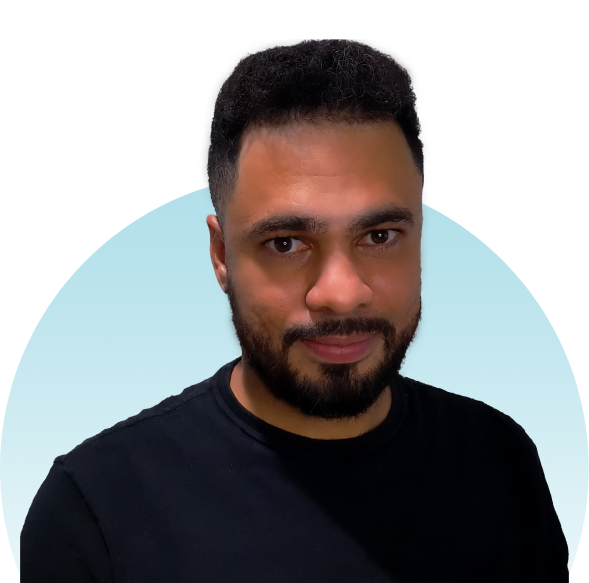
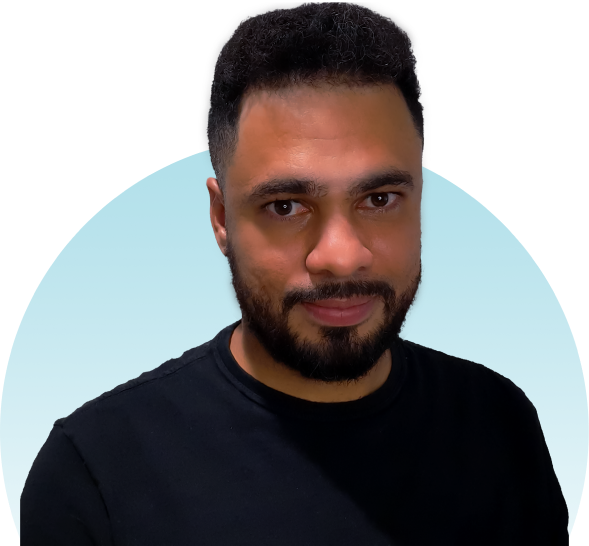
about section responsivity 1

diff --git a/assets/styles/css/style.min.css b/assets/styles/css/style.min.css
@@ -1,1 +1,1 @@
-@import"https://fonts.googleapis.com/css2?family=Poppins:ital,wght@0,100;0,200;0,300;0,400;0,500;0,600;0,700;0,800;0,900;1,100;1,200;1,300;1,400;1,500;1,600;1,700;1,800;1,900&family=Raleway:ital,wght@0,100..900;1,100..900&display=swap";*{margin:0;padding:0;vertical-align:baseline;box-sizing:border-box;-moz-box-sizing:border-box;-webkit-box-sizing:border-box}html{scroll-behavior:smooth}body{font-family:"Raleway",sans-serif;font-size:1rem;font-weight:400;color:#fff;background-color:#222a36}h1,h2,h3,h4,h5,h6{font-family:"Poppins",sans-serif;line-height:1}p{margin-block:18px}img{width:100%;height:auto;max-width:100%;object-fit:cover;-o-object-fit:cover;object-position:center;-o-object-position:center}input,select,textarea,button{font-family:inherit;font-size:inherit}a{text-decoration:none;color:inherit}li{list-style:none}.th-button{background-color:#3aafc9;display:inline-block;padding:12px 24px;cursor:pointer;border:none;font-family:"Poppins",sans-serif;text-transform:uppercase;font-weight:500;text-align:center}.th-social{display:flex;justify-content:center;align-items:center;flex-wrap:wrap;gap:24px;width:auto;padding-block:40px}@media screen and (min-width: 1023px){.th-social{justify-content:flex-start;padding-block:40px 0}}.th-social a{display:flex;justify-content:center;align-items:center;flex-wrap:wrap;width:45px;height:45px;border:2px solid #3aafc9;border-radius:50%;-moz-border-radius:50%;-webkit-border-radius:50%;font-size:1.6em;color:#3aafc9}@media screen and (min-width: 599px){.th-social a{width:48px;height:48px;font-size:1.8em}}@media screen and (min-width: 1023px){.th-social a{width:54px;height:54px;font-size:2em}}.th-divider{width:120px;height:5px;background-color:#3aafc9;margin-inline:auto}@media screen and (min-width: 1023px){.th-divider{width:180px;height:10px}}.th-section-title{text-align:center;text-transform:uppercase;font-size:1.2em;margin-bottom:20px}.th-section-title span{display:block;font-weight:500;font-size:.7em;text-transform:none;color:#3aafc9;margin-bottom:8px}.th-header{width:100%;position:fixed;top:0;left:0;width:100%;z-index:100;transition:all .3s ease 0s}.th-header.scrolling{background-color:#1c232e;box-shadow:0 1px 5px rgba(0,0,0,.2)}.th-header__container{max-width:1300px;padding-inline:20px;margin-inline:auto;display:flex;justify-content:flex-end;align-items:center;flex-wrap:nowrap;height:60px}@media screen and (min-width: 899px){.th-header__container{height:auto}}.th-header__title{display:none}.th-header__menuIcon{height:21px;display:flex;justify-content:center;align-items:center;flex-wrap:wrap;cursor:pointer}@media screen and (min-width: 899px){.th-header__menuIcon{display:none}}.th-header__menuIcon .hamb-icon{width:40px;height:3px;background-color:#fff;position:relative;transition:all .3s ease 0s;z-index:110}.th-header__menuIcon .hamb-icon::before{content:"";position:absolute;top:-9px;left:0;width:100%;height:100%;background-color:#fff;transition:all .3s ease 0s}.th-header__menuIcon .hamb-icon::after{content:"";position:absolute;top:9px;left:0;width:100%;height:100%;background-color:#fff;transition:all .3s ease 0s}.th-header__menuIcon.active .hamb-icon{background-color:rgba(0,0,0,0)}.th-header__menuIcon.active .hamb-icon::before{transform:translateY(9px) rotate(45deg)}.th-header__menuIcon.active .hamb-icon::after{transform:translateY(-9px) rotate(-45deg)}.th-header__navOverlay{position:fixed;top:0;left:0;width:100%;height:100vh;z-index:100;transition:all .3s ease 0s;display:flex;justify-content:flex-end;align-items:center;flex-wrap:wrap;display:none}@media screen and (min-width: 899px){.th-header__navOverlay{display:block !important;position:static;width:auto;height:auto}}.th-header__menuWrapper{width:100%;height:100%;max-width:560px;background-color:rgba(28,35,46,.968627451);padding:20px;overflow-x:auto;transition:all .3s ease 0s;transform:translateX(calc(100% + 8px))}@media screen and (min-width: 559px){.th-header__menuWrapper{border-left:8px solid #3aafc9}}@media screen and (min-width: 899px){.th-header__menuWrapper{transform:none;max-width:none;overflow-x:visible;border:none;padding:0;background:none}}.th-header__menuWrapper.active{transform:none}.th-header__menu{width:100%;height:100%;display:flex;justify-content:center;align-items:stretch;flex-wrap:nowrap;flex-direction:column;font-family:"Poppins",sans-serif}@media screen and (min-width: 899px){.th-header__menu{flex-direction:row;gap:40px;align-items:center}}@media screen and (min-width: 1023px){.th-header__menu{gap:60px}}.th-header__menuItem:not(.cv,.social){text-align:right;text-transform:uppercase;font-size:2.4em;padding-right:20px;font-weight:500;border-right:6px solid rgba(0,0,0,0);transition:all .3s ease 0s}@media screen and (min-width: 899px){.th-header__menuItem:not(.cv,.social){padding-right:0;border:none;font-size:1em}}.th-header__menuItem:not(.cv,.social):has(a:hover){border-color:#3aafc9}.th-header__menuItem:not(.cv,.social) a{padding-block:12px;display:inline-block;transition:all .3s ease 0s}@media screen and (min-width: 899px){.th-header__menuItem:not(.cv,.social) a{padding-block:26px;border-bottom:4px solid rgba(0,0,0,0)}.th-header__menuItem:not(.cv,.social) a:hover{border-color:#3aafc9}}.th-header__menuItem.cv a{width:100%;font-size:1.6em}@media screen and (min-width: 899px){.th-header__menuItem.cv a{font-size:1em}}@media screen and (min-width: 899px){.th-header__menuItem.social{display:none}}.th-hero{width:100%;position:relative;height:100vh;min-height:812px;background-color:#1c232e}@media screen and (min-width: 1023px){.th-hero{min-height:100vh}}.th-hero__bg{position:absolute;top:0;left:0;width:100%;height:100%;text-align:right}.th-hero__bg img{height:100%;opacity:.5;mix-blend-mode:screen;filter:saturate(25%);pointer-events:none}@media screen and (min-width: 1023px){.th-hero__bg img{width:70%}}.th-hero__bg .gradient{position:absolute;top:unset;left:0;bottom:0;width:100%;height:520px;background-image:linear-gradient(to top, #1C232E 20%, transparent 100%)}@media screen and (min-width: 1023px){.th-hero__bg .gradient{width:64%;height:100%;background-image:linear-gradient(to right, #1C232E 50%, transparent 100%)}}.th-hero__container{position:relative;max-width:1300px;padding-inline:20px;margin-inline:auto;display:flex;justify-content:center;align-items:center;flex-wrap:wrap;height:100%}@media screen and (min-width: 1023px){.th-hero__container{justify-content:flex-start}}.th-hero__infoWrapper{text-align:center}@media screen and (min-width: 1023px){.th-hero__infoWrapper{flex-basis:50%;text-align:left}}.th-hero__subtitle{font-family:"Poppins",sans-serif;font-weight:700;font-size:1.6em;color:#3aafc9;margin-bottom:20px}@media screen and (min-width: 599px){.th-hero__subtitle{font-size:2em}}.th-hero__title{font-size:1.6em;text-transform:uppercase;margin-bottom:40px;max-width:460px;margin-inline:auto}@media screen and (min-width: 599px){.th-hero__title{font-size:2.2em}}@media screen and (min-width: 1023px){.th-hero__title{max-width:none;margin-inline:0;font-size:3em}}.th-hero__title h1{font-weight:900}.th-hero__title h1 span{font-weight:500;font-size:.6em}.th-hero__info{margin-top:40px;max-width:460px}@media screen and (min-width: 1023px){.th-hero .th-divider{margin:0}}.th-technologies{width:100%;padding-block:20px;background-image:linear-gradient(to bottom, #1C232E, #222A36)}.th-technologies__container{max-width:1300px;padding-inline:20px;margin-inline:auto}.th-technologies__list{display:flex;justify-content:space-between;align-items:center;flex-wrap:wrap}.th-technologies__item i{opacity:.16;font-size:30px;pointer-events:none}@media screen and (min-width: 767px){.th-technologies__item i{font-size:50px}}@media screen and (min-width: 1365px){.th-technologies__item i{font-size:80px}}.th-about{width:100%;margin-block:80px}.th-about__container{max-width:1300px;padding-inline:20px;margin-inline:auto}.th-about__info{display:flex;justify-content:center;align-items:center;flex-wrap:wrap;flex-direction:column;gap:20px;margin-bottom:40px}.th-about__photo{width:100%;max-width:460px}.th-about__infoTitle h2{font-family:"Raleway",sans-serif;text-align:center;color:#3aafc9}.th-about .th-divider{margin-bottom:40px}
+@import"https://fonts.googleapis.com/css2?family=Poppins:ital,wght@0,100;0,200;0,300;0,400;0,500;0,600;0,700;0,800;0,900;1,100;1,200;1,300;1,400;1,500;1,600;1,700;1,800;1,900&family=Raleway:ital,wght@0,100..900;1,100..900&display=swap";*{margin:0;padding:0;vertical-align:baseline;box-sizing:border-box;-moz-box-sizing:border-box;-webkit-box-sizing:border-box}html{scroll-behavior:smooth}body{font-family:"Raleway",sans-serif;font-size:1rem;font-weight:400;color:#fff;background-color:#222a36}h1,h2,h3,h4,h5,h6{font-family:"Poppins",sans-serif;line-height:1}p{margin-block:18px}img{width:100%;height:auto;max-width:100%;object-fit:cover;-o-object-fit:cover;object-position:center;-o-object-position:center}input,select,textarea,button{font-family:inherit;font-size:inherit}a{text-decoration:none;color:inherit}li{list-style:none}.th-button{background-color:#3aafc9;display:inline-block;padding:12px 24px;cursor:pointer;border:none;font-family:"Poppins",sans-serif;text-transform:uppercase;font-weight:500;text-align:center}.th-social{display:flex;justify-content:center;align-items:center;flex-wrap:wrap;gap:24px;width:auto;padding-block:40px}@media screen and (min-width: 1023px){.th-social{justify-content:flex-start;padding-block:40px 0}}.th-social a{display:flex;justify-content:center;align-items:center;flex-wrap:wrap;width:45px;height:45px;border:2px solid #3aafc9;border-radius:50%;-moz-border-radius:50%;-webkit-border-radius:50%;font-size:1.6em;color:#3aafc9}@media screen and (min-width: 599px){.th-social a{width:48px;height:48px;font-size:1.8em}}@media screen and (min-width: 1023px){.th-social a{width:54px;height:54px;font-size:2em}}.th-divider{width:120px;height:5px;background-color:#3aafc9;margin-inline:auto}@media screen and (min-width: 1023px){.th-divider{width:180px;height:10px}}.th-section-title{text-align:center;text-transform:uppercase;font-size:1.2em;margin-bottom:20px}@media screen and (min-width: 767px){.th-section-title{font-size:1.6em}}@media screen and (min-width: 1023px){.th-section-title{font-size:2em;text-align:left}}.th-section-title span{display:block;font-weight:500;font-size:.7em;text-transform:none;color:#3aafc9;margin-bottom:8px}.th-header{width:100%;position:fixed;top:0;left:0;width:100%;z-index:100;transition:all .3s ease 0s}.th-header.scrolling{background-color:#1c232e;box-shadow:0 1px 5px rgba(0,0,0,.2)}.th-header__container{max-width:1300px;padding-inline:20px;margin-inline:auto;display:flex;justify-content:flex-end;align-items:center;flex-wrap:nowrap;height:60px}@media screen and (min-width: 899px){.th-header__container{height:auto}}.th-header__title{display:none}.th-header__menuIcon{height:21px;display:flex;justify-content:center;align-items:center;flex-wrap:wrap;cursor:pointer}@media screen and (min-width: 899px){.th-header__menuIcon{display:none}}.th-header__menuIcon .hamb-icon{width:40px;height:3px;background-color:#fff;position:relative;transition:all .3s ease 0s;z-index:110}.th-header__menuIcon .hamb-icon::before{content:"";position:absolute;top:-9px;left:0;width:100%;height:100%;background-color:#fff;transition:all .3s ease 0s}.th-header__menuIcon .hamb-icon::after{content:"";position:absolute;top:9px;left:0;width:100%;height:100%;background-color:#fff;transition:all .3s ease 0s}.th-header__menuIcon.active .hamb-icon{background-color:rgba(0,0,0,0)}.th-header__menuIcon.active .hamb-icon::before{transform:translateY(9px) rotate(45deg)}.th-header__menuIcon.active .hamb-icon::after{transform:translateY(-9px) rotate(-45deg)}.th-header__navOverlay{position:fixed;top:0;left:0;width:100%;height:100vh;z-index:100;transition:all .3s ease 0s;display:flex;justify-content:flex-end;align-items:center;flex-wrap:wrap;display:none}@media screen and (min-width: 899px){.th-header__navOverlay{display:block !important;position:static;width:auto;height:auto}}.th-header__menuWrapper{width:100%;height:100%;max-width:560px;background-color:rgba(28,35,46,.968627451);padding:20px;overflow-x:auto;transition:all .3s ease 0s;transform:translateX(calc(100% + 8px))}@media screen and (min-width: 559px){.th-header__menuWrapper{border-left:8px solid #3aafc9}}@media screen and (min-width: 899px){.th-header__menuWrapper{transform:none;max-width:none;overflow-x:visible;border:none;padding:0;background:none}}.th-header__menuWrapper.active{transform:none}.th-header__menu{width:100%;height:100%;display:flex;justify-content:center;align-items:stretch;flex-wrap:nowrap;flex-direction:column;font-family:"Poppins",sans-serif}@media screen and (min-width: 899px){.th-header__menu{flex-direction:row;gap:40px;align-items:center}}@media screen and (min-width: 1023px){.th-header__menu{gap:60px}}.th-header__menuItem:not(.cv,.social){text-align:right;text-transform:uppercase;font-size:2.4em;padding-right:20px;font-weight:500;border-right:6px solid rgba(0,0,0,0);transition:all .3s ease 0s}@media screen and (min-width: 899px){.th-header__menuItem:not(.cv,.social){padding-right:0;border:none;font-size:1em}}.th-header__menuItem:not(.cv,.social):has(a:hover){border-color:#3aafc9}.th-header__menuItem:not(.cv,.social) a{padding-block:12px;display:inline-block;transition:all .3s ease 0s}@media screen and (min-width: 899px){.th-header__menuItem:not(.cv,.social) a{padding-block:26px;border-bottom:4px solid rgba(0,0,0,0)}.th-header__menuItem:not(.cv,.social) a:hover{border-color:#3aafc9}}.th-header__menuItem.cv a{width:100%;font-size:1.6em}@media screen and (min-width: 899px){.th-header__menuItem.cv a{font-size:1em}}@media screen and (min-width: 899px){.th-header__menuItem.social{display:none}}.th-hero{width:100%;position:relative;height:100vh;min-height:812px;background-color:#1c232e}@media screen and (min-width: 1023px){.th-hero{min-height:100vh}}.th-hero__bg{position:absolute;top:0;left:0;width:100%;height:100%;text-align:right}.th-hero__bg img{height:100%;opacity:.5;mix-blend-mode:screen;filter:saturate(25%);pointer-events:none}@media screen and (min-width: 1023px){.th-hero__bg img{width:70%}}.th-hero__bg .gradient{position:absolute;top:unset;left:0;bottom:0;width:100%;height:520px;background-image:linear-gradient(to top, #1C232E 20%, transparent 100%)}@media screen and (min-width: 1023px){.th-hero__bg .gradient{width:64%;height:100%;background-image:linear-gradient(to right, #1C232E 50%, transparent 100%)}}.th-hero__container{position:relative;max-width:1300px;padding-inline:20px;margin-inline:auto;display:flex;justify-content:center;align-items:center;flex-wrap:wrap;height:100%}@media screen and (min-width: 1023px){.th-hero__container{justify-content:flex-start}}.th-hero__infoWrapper{text-align:center}@media screen and (min-width: 1023px){.th-hero__infoWrapper{flex-basis:50%;text-align:left}}.th-hero__subtitle{font-family:"Poppins",sans-serif;font-weight:700;font-size:1.6em;color:#3aafc9;margin-bottom:20px}@media screen and (min-width: 599px){.th-hero__subtitle{font-size:2em}}.th-hero__title{font-size:1.6em;text-transform:uppercase;margin-bottom:40px;max-width:460px;margin-inline:auto}@media screen and (min-width: 599px){.th-hero__title{font-size:2.2em}}@media screen and (min-width: 1023px){.th-hero__title{max-width:none;margin-inline:0;font-size:3em}}.th-hero__title h1{font-weight:900}.th-hero__title h1 span{font-weight:500;font-size:.6em}.th-hero__info{margin-top:40px;max-width:460px}@media screen and (min-width: 1023px){.th-hero .th-divider{margin:0}}.th-technologies{width:100%;padding-block:20px;background-image:linear-gradient(to bottom, #1C232E, #222A36)}.th-technologies__container{max-width:1300px;padding-inline:20px;margin-inline:auto}.th-technologies__list{display:flex;justify-content:space-between;align-items:center;flex-wrap:wrap}.th-technologies__item i{opacity:.16;font-size:30px;pointer-events:none}@media screen and (min-width: 767px){.th-technologies__item i{font-size:50px}}@media screen and (min-width: 1365px){.th-technologies__item i{font-size:80px}}.th-about{width:100%;margin-block:80px}.th-about__container{max-width:1300px;padding-inline:20px;margin-inline:auto}.th-about__info{display:flex;justify-content:center;align-items:center;flex-wrap:wrap;flex-direction:column;gap:20px;margin-bottom:80px}@media screen and (min-width: 1023px){.th-about__info{flex-direction:row;flex-wrap:nowrap}}.th-about__photo{width:100%;max-width:460px}@media screen and (min-width: 1023px){.th-about__photo{max-width:none;flex-basis:calc(50% - 20px)}}.th-about__infoText{max-width:600px}@media screen and (min-width: 1023px){.th-about__infoText{max-width:none;flex-basis:calc(50% - 20px)}}.th-about__infoTitle h2{font-family:"Raleway",sans-serif;text-align:center;color:#3aafc9}@media screen and (min-width: 1023px){.th-about__infoTitle h2{text-align:left}}.th-about .th-divider{margin-bottom:80px}

diff --git a/assets/styles/css/style.css b/assets/styles/css/style.css
@@ -126,6 +126,17 @@ li {
   font-size: 1.2em;
   margin-bottom: 20px;
 }
+@media screen and (min-width: 767px) {
+  .th-section-title {
+    font-size: 1.6em;
+  }
+}
+@media screen and (min-width: 1023px) {
+  .th-section-title {
+    font-size: 2em;
+    text-align: left;
+  }
+}
 .th-section-title span {
   display: block;
   font-weight: 500;
@@ -509,17 +520,43 @@ li {
   flex-wrap: wrap;
   flex-direction: column;
   gap: 20px;
-  margin-bottom: 40px;
+  margin-bottom: 80px;
+}
+@media screen and (min-width: 1023px) {
+  .th-about__info {
+    flex-direction: row;
+    flex-wrap: nowrap;
+  }
 }
 .th-about__photo {
   width: 100%;
   max-width: 460px;
+}
+@media screen and (min-width: 1023px) {
+  .th-about__photo {
+    max-width: none;
+    flex-basis: calc(50% - 20px);
+  }
+}
+.th-about__infoText {
+  max-width: 600px;
+}
+@media screen and (min-width: 1023px) {
+  .th-about__infoText {
+    max-width: none;
+    flex-basis: calc(50% - 20px);
+  }
 }
 .th-about__infoTitle h2 {
   font-family: "Raleway", sans-serif;
   text-align: center;
   color: #3AAFC9;
 }
+@media screen and (min-width: 1023px) {
+  .th-about__infoTitle h2 {
+    text-align: left;
+  }
+}
 .th-about .th-divider {
-  margin-bottom: 40px;
+  margin-bottom: 80px;
 }

diff --git a/assets/styles/scss/theme/_about.scss b/assets/styles/scss/theme/_about.scss
@@ -11,12 +11,31 @@
             @include flex;
             flex-direction: column;
             gap: 20px;
-            margin-bottom: 40px;
+            margin-bottom: 80px;
+
+            @include setResponsiveDesign($breakpoint-desktop-sd) {
+                flex-direction: row;
+                flex-wrap: nowrap;
+            }
         }
 
         &__photo {
             width: 100%;
             max-width: 460px;
+
+            @include setResponsiveDesign($breakpoint-desktop-sd) {
+                max-width: none;
+                @include flex2(20px);
+            }
+        }
+
+        &__infoText {
+            max-width: 600px;
+
+            @include setResponsiveDesign($breakpoint-desktop-sd) {
+                max-width: none;
+                @include flex2(20px);
+            }
         }
 
         &__infoTitle {
@@ -24,11 +43,15 @@
                 font-family: $font-raleway;
                 text-align: center;
                 color: $color-moonstone;
+
+                @include setResponsiveDesign($breakpoint-desktop-sd) {
+                    text-align: left;
+                }
             }
         }
 
         .th-divider {
-            margin-bottom: 40px;
+            margin-bottom: 80px;
         }
     }
 }

diff --git a/index.html b/index.html
@@ -165,7 +165,10 @@
 
                 <article class="th-about__info">
                     <div class="th-about__photo">
-                        <img src="assets/images/eu_mobile.png" alt="Eu">
+                        <picture>
+                            <source media="(min-width: 1024px)" srcset="assets/images/eu_desktop.png">
+                            <img src="assets/images/eu_mobile.png" alt="Eu">
+                        </picture>
                     </div>
 
                     <div class="th-about__infoText">

diff --git a/assets/styles/scss/theme/_boot.scss b/assets/styles/scss/theme/_boot.scss
@@ -113,6 +113,15 @@ li {
         font-size: 1.2em;
         margin-bottom: 20px;
 
+        @include setResponsiveDesign($breakpoint-tablet) {
+            font-size: 1.6em;
+        }
+
+        @include setResponsiveDesign($breakpoint-desktop-sd) {
+            font-size: 2em;
+            text-align: left;
+        }
+
         span {
             display: block;
             font-weight: 500;
